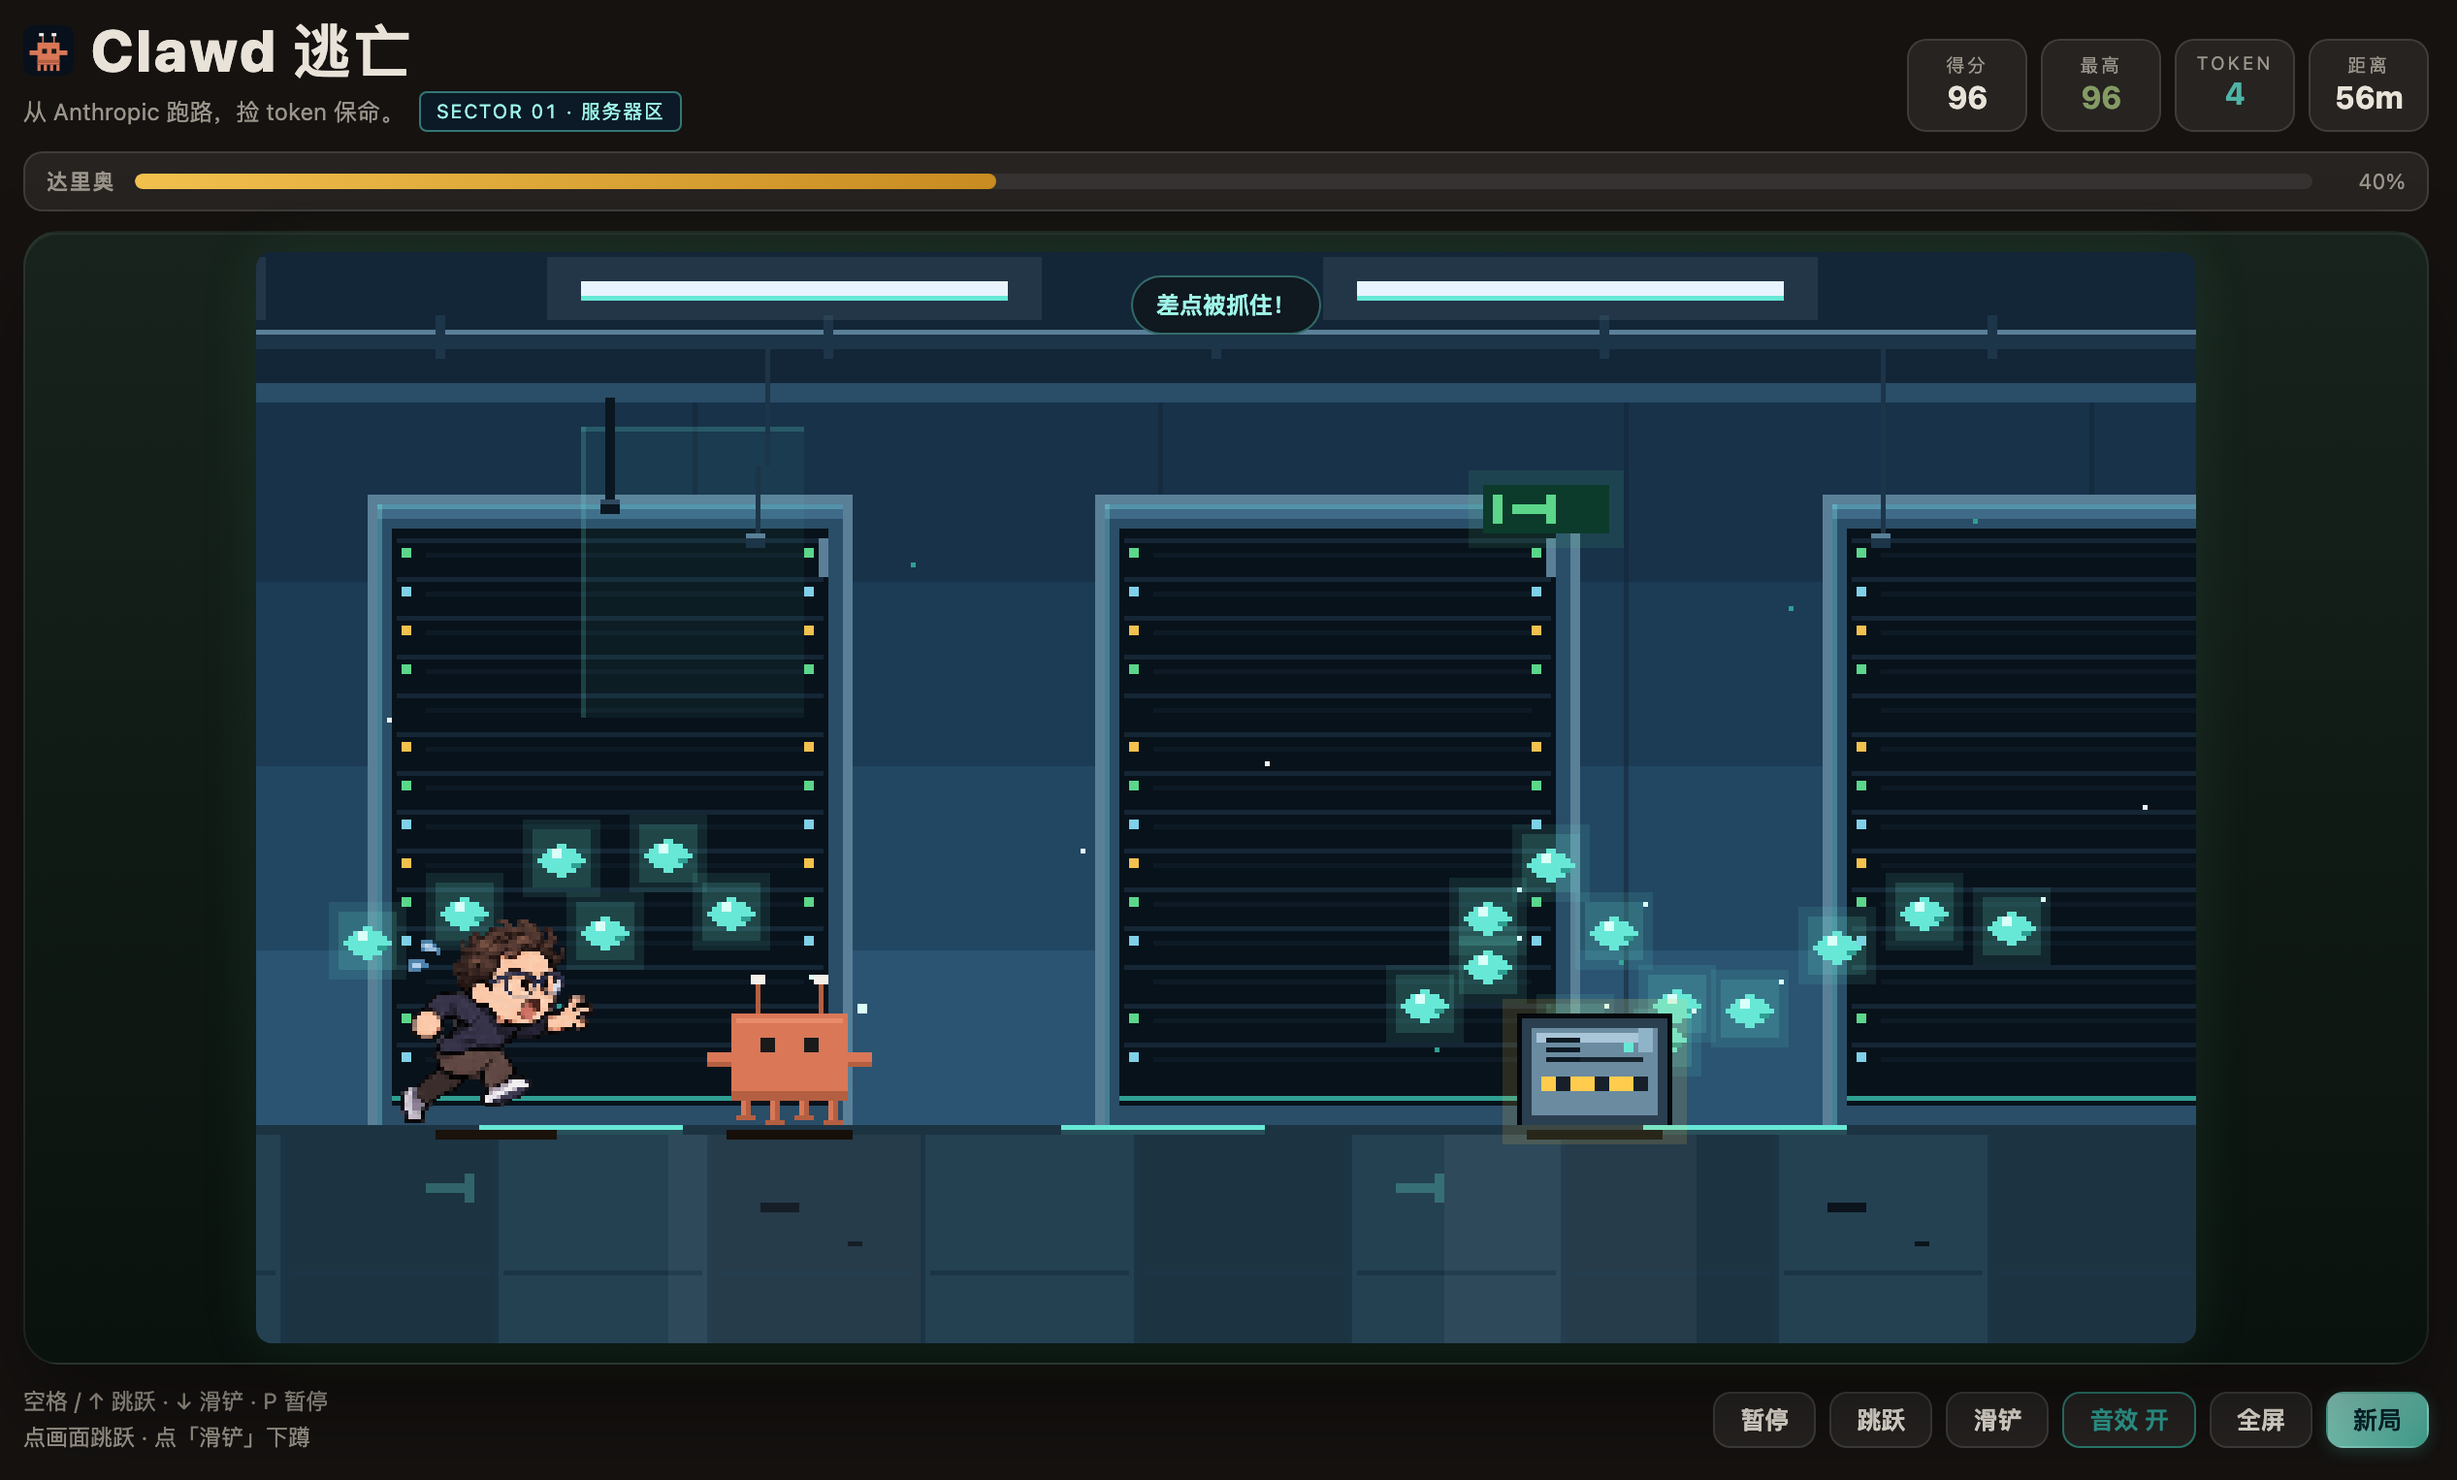
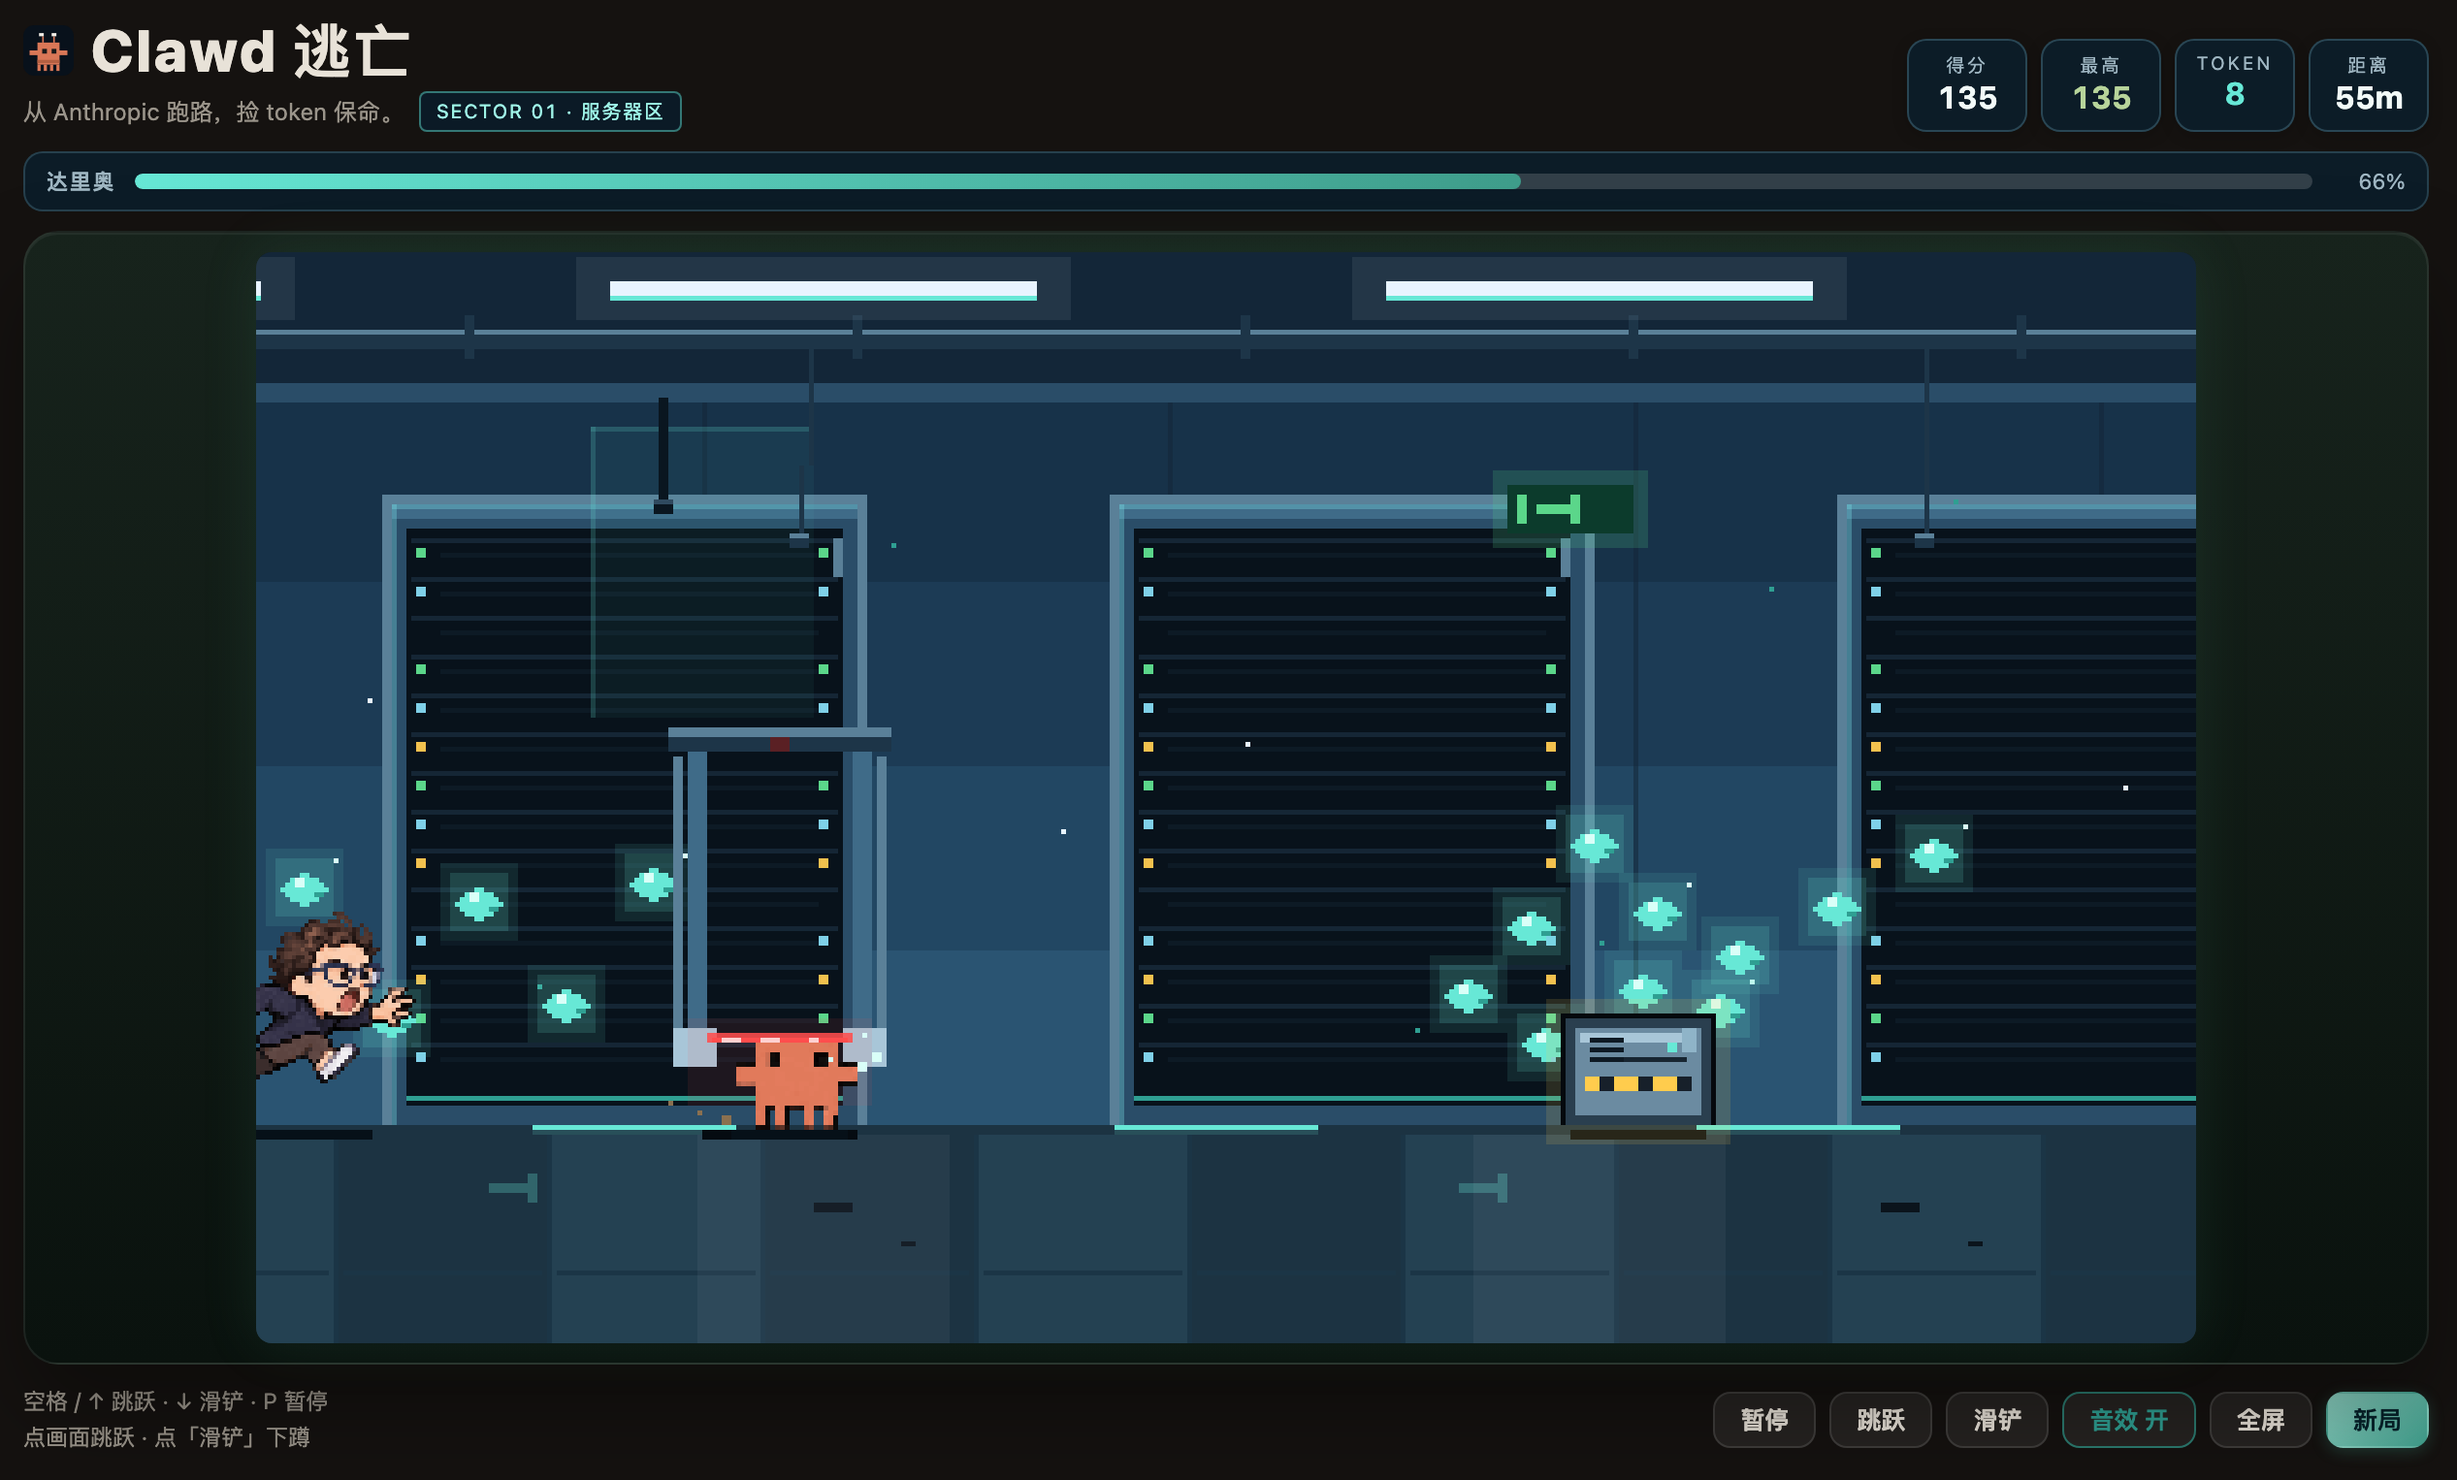
feat: 0.4.0 Clawd 运行/滑铲 GIF 精灵表，HUD 改固定深色高对比

diff --git a/lib/client.js b/lib/client.js
@@ -620,12 +620,6 @@ window.__ModuleLoader__.load({
           h('rect', { x: 10, y: 18, width: 1, height: 3 }),
           h('rect', { x: 13, y: 18, width: 1, height: 3 }),
           h('rect', { x: 16, y: 18, width: 1, height: 3 }),
-          h('rect', { x: 8, y: 3, width: 1, height: 4 }),
-          h('rect', { x: 15, y: 3, width: 1, height: 4, opacity: 0.7 }),
-        ),
-        h('g', { fill: 'currentColor', opacity: 0.9 },
-          h('rect', { x: 7, y: 3, width: 2, height: 1 }),
-          h('rect', { x: 14, y: 3, width: 2, height: 1 }),
         ),
       )
     }
@@ -648,12 +642,6 @@ window.__ModuleLoader__.load({
           h('rect', { x: 13, y: 25, width: 2, height: 4 }),
           h('rect', { x: 17, y: 25, width: 2, height: 4 }),
           h('rect', { x: 21, y: 25, width: 2, height: 4 }),
-          h('rect', { x: 12, y: 7, width: 1, height: 4 }),
-          h('rect', { x: 19, y: 7, width: 1, height: 4 }),
-        ),
-        h('g', { fill: '#f4f0e8' },
-          h('rect', { x: 10, y: 5, width: 3, height: 2 }),
-          h('rect', { x: 18, y: 5, width: 3, height: 2 }),
         ),
         h('g', { fill: '#1a1a1a' },
           h('rect', { x: 12, y: 15, width: 3, height: 3 }),
@@ -691,6 +679,14 @@ window.__ModuleLoader__.load({
     const DARIO_FRAME_W = 51
     const DARIO_FRAME_H = 56
     const DARIO_FRAMES = 12
+    // 用户提供的 Clawd-running.gif / Clawd-sliding.gif，各 12 帧、透明底，拆成横向精灵表内嵌。
[2 lines of base64/hex data omitted]
+    const CLAWD_RUN_FRAME_W = 46
+    const CLAWD_RUN_FRAME_H = 36
+    const CLAWD_SLIDE_FRAME_W = 38
+    const CLAWD_SLIDE_FRAME_H = 20
+    const CLAWD_FRAMES = 12
     const DUST = '#8a7050'
 
     function pixelCircle(ctx, cx, cy, radius, color) {
@@ -1085,83 +1081,62 @@ window.__ModuleLoader__.load({
       return Math.floor(now / 240) % 4 !== 0
     }
 
+    let clawdRunSprite = null
+    let clawdSlideSprite = null
+    function getClawdSprite(sliding) {
+      if (typeof Image === 'undefined') return null
+      if (sliding) {
+        if (!clawdSlideSprite) {
+          clawdSlideSprite = new Image()
+          clawdSlideSprite.src = CLAWD_SLIDE_SHEET
+        }
+        return clawdSlideSprite
+      }
+      if (!clawdRunSprite) {
+        clawdRunSprite = new Image()
+        clawdRunSprite.src = CLAWD_RUN_SHEET
+      }
+      return clawdRunSprite
+    }
+
+    /** Clawd 直接使用用户提供的 running / sliding 精灵表。 */
     function drawClawd(ctx, game, now) {
       const player = game.player
       const x = PLAYER_X
       const feet = Math.round(GROUND_Y + player.y)
       const sliding = player.sliding
       const airborne = player.y < 0
-      const phase = Math.floor(player.anim * 8) % 2
-      const bob = airborne || sliding ? 0 : (Math.floor(player.anim * 8) % 4 < 2 ? 0 : 1)
-      const bodyW = 24
-      const bodyH = 18
-      const bodyLeft = x - bodyW / 2
-      const bodyTop = sliding ? feet - 12 : feet - 24 + bob
-      const bodyHeight = sliding ? 12 : bodyH
-      const bodyColor = '#d97757'
-      const shade = '#b45f41'
-      const light = '#e88b6a'
-      if (!airborne) {
-        ctx.fillStyle = '#170f09'
-        ctx.fillRect(x - 13, GROUND_Y + 1, 26, 2)
-      }
-      // 四条腿（先画，压在身体下面；顶端固定接在身体底边，不再和身体断开）
-      const bodyBottom = bodyTop + bodyHeight
-      if (sliding) {
-        ctx.fillStyle = shade
-        ctx.fillRect(bodyLeft + 1, feet - 4, 5, 4)
-        ctx.fillRect(bodyLeft + bodyW - 7, feet - 4, 6, 4)
-        ctx.fillStyle = bodyColor
-        ctx.fillRect(bodyLeft + 2, feet - 6, 4, 3)
-        ctx.fillRect(bodyLeft + bodyW - 6, feet - 6, 4, 3)
+      const sprite = getClawdSprite(sliding)
+      const frameW = sliding ? CLAWD_SLIDE_FRAME_W : CLAWD_RUN_FRAME_W
+      const frameH = sliding ? CLAWD_SLIDE_FRAME_H : CLAWD_RUN_FRAME_H
+      const height = sliding ? 20 : 36
+      const width = Math.round((frameW * height) / frameH)
+      // 地面投影
+      ctx.fillStyle = '#061018'
+      if (airborne) {
+        const shrink = Math.min(12, Math.round(-player.y * 0.15))
+        ctx.fillRect(x - 12 + shrink, GROUND_Y + 1, 24 - shrink * 2, 2)
       } else {
-        const legOffsets = [2, 8, 14, 20]
-        for (let i = 0; i < legOffsets.length; i += 1) {
-          const swing = airborne ? 2 : (i % 2 === phase ? 1 : 0)
-          const top = bodyBottom - 1
-          const bottom = feet - (airborne ? 3 : swing)
-          if (bottom <= top) continue
-          ctx.fillStyle = shade
-          ctx.fillRect(bodyLeft + legOffsets[i], top, 2, bottom - top)
-          ctx.fillStyle = bodyColor
-          ctx.fillRect(bodyLeft + legOffsets[i], top, 1, Math.max(1, bottom - top - 1))
-          ctx.fillStyle = shade
-          ctx.fillRect(bodyLeft + legOffsets[i] - 1, bottom - 1, 4, 1)
-        }
+        ctx.fillRect(x - Math.round(width * 0.32), GROUND_Y + 1, Math.round(width * 0.64), 2)
       }
-      // 手臂（中段，左右各一截）
-      const armY = bodyTop + Math.floor(bodyHeight / 2) - 1
-      ctx.fillStyle = bodyColor
-      ctx.fillRect(bodyLeft - 5, armY, 5, 3)
-      ctx.fillRect(bodyLeft + bodyW, armY, 5, 3)
-      ctx.fillStyle = shade
-      ctx.fillRect(bodyLeft - 5, armY + 2, 5, 1)
-      ctx.fillRect(bodyLeft + bodyW, armY + 2, 5, 1)
-      // 方身体
-      ctx.fillStyle = bodyColor
-      ctx.fillRect(bodyLeft, bodyTop, bodyW, bodyHeight)
-      ctx.fillStyle = light
-      ctx.fillRect(bodyLeft + 1, bodyTop + 1, bodyW - 2, 1)
-      ctx.fillStyle = shade
-      ctx.fillRect(bodyLeft, bodyTop + bodyHeight - 2, bodyW, 2)
-      // 两根触角 + 白色尖端
-      const antennaY = bodyTop - 6
-      ctx.fillStyle = shade
-      ctx.fillRect(bodyLeft + 5, antennaY, 1, 6)
-      ctx.fillRect(bodyLeft + bodyW - 6, antennaY, 1, 6)
-      ctx.fillStyle = '#f4f0e8'
-      ctx.fillRect(bodyLeft + 4, antennaY - 2, 3, 2)
-      ctx.fillRect(bodyLeft + bodyW - 7, antennaY - 2, 3, 2)
-      // 两只方形眼睛，没嘴巴
-      ctx.fillStyle = '#1a1a1a'
-      const eyeY = bodyTop + (sliding ? 3 : 5)
-      const eyeOffset = sliding ? 8 : 6
-      ctx.fillRect(bodyLeft + eyeOffset, eyeY, 3, 3)
-      ctx.fillRect(bodyLeft + bodyW - eyeOffset - 3, eyeY, 3, 3)
-      // 跑动时脚边的小尘土
-      if (!airborne && !sliding && (Math.floor(player.anim * 8) % 6 === 0)) {
-        ctx.fillStyle = '#6b5238'
-        ctx.fillRect(bodyLeft - 2, feet - 1, 2, 1)
+      if (!sprite || !sprite.complete || !sprite.naturalWidth) return
+      const blinking = player.invuln > 0 && Math.floor(now / 110) % 2 === 0
+      const frameTime = sliding ? 0.09 : 0.08
+      const frame = Math.floor(game.time / frameTime) % CLAWD_FRAMES
+      const left = x - Math.round(width / 2)
+      const top = feet + 2 - height
+      ctx.drawImage(sprite, frame * frameW, 0, frameW, frameH, left, top, width, height)
+      if (blinking) {
+        ctx.fillStyle = '#ffffff'
+        const arm = 5
+        ctx.fillRect(left - 2, top - 2, arm, 1)
+        ctx.fillRect(left - 2, top - 2, 1, arm)
+        ctx.fillRect(left + width + 1 - arm, top - 2, arm, 1)
+        ctx.fillRect(left + width + 1, top - 2, 1, arm)
+        ctx.fillRect(left - 2, top + height + 1, arm, 1)
+        ctx.fillRect(left - 2, top + height + 1 - arm + 1, 1, arm)
+        ctx.fillRect(left + width + 1 - arm, top + height + 1, arm, 1)
+        ctx.fillRect(left + width + 1, top + height + 1 - arm + 1, 1, arm)
       }
     }
 
@@ -1174,14 +1149,13 @@ window.__ModuleLoader__.load({
       return darioSprite
     }
 
-    /** 达里奥直接用用户给的 Running-Dario.gif 拆帧精灵表。 */
+    /** 达里奥使用用户提供的 Running-Dario.gif 拆帧精灵表。 */
     function drawDario(ctx, game, now) {
       const x = Math.round(PLAYER_X - game.gap)
       if (x < -80) return
       const height = game.gap < 35 ? 50 : 46
       const width = Math.round((DARIO_FRAME_W * height) / DARIO_FRAME_H)
-      // 地面投影
-      ctx.fillStyle = '#1a120b'
+      ctx.fillStyle = '#061018'
       ctx.fillRect(x - Math.round(width * 0.3), GROUND_Y + 1, Math.round(width * 0.6), 2)
       const sprite = getDarioSprite()
       if (!sprite || !sprite.complete || !sprite.naturalWidth) return
@@ -1230,18 +1204,18 @@ window.__ModuleLoader__.load({
       '.cr-sub{font-size:12px;line-height:1.5;color:var(--dsw-alias-label-secondary,#9a9a9a)}',
       '.cr-sector{display:inline-block;margin-left:8px;padding:2px 8px;border-radius:4px;border:1px solid rgba(103,232,214,.45);background:#0b1a26;font-size:10px;letter-spacing:.08em;color:#9ff5e8;vertical-align:1px;font-variant-numeric:tabular-nums}',
       '.cr-stats{display:flex;gap:7px;flex-wrap:wrap}',
-      '.cr-stat{min-width:62px;padding:6px 9px;border-radius:10px;box-sizing:border-box;text-align:center;background:var(--dsw-alias-bg-layer-2,rgba(127,127,127,.12));border:1px solid var(--dsw-alias-border-l1,rgba(127,127,127,.2))}',
-      '.cr-stat-k{font-size:9.5px;letter-spacing:.14em;text-transform:uppercase;color:var(--dsw-alias-label-secondary,#9a9a9a)}',
-      '.cr-stat-v{font-size:16px;font-weight:700;line-height:1.3;font-variant-numeric:tabular-nums;color:var(--dsw-alias-label-primary,inherit)}',
-      '.cr-stat.is-best .cr-stat-v{color:#849b64}',
-      '.cr-stat.is-token .cr-stat-v{color:#4fb3a5}',
-      '.cr-chase{display:flex;align-items:center;gap:10px;padding:7px 11px;border-radius:10px;box-sizing:border-box;background:var(--dsw-alias-bg-layer-2,rgba(127,127,127,.1));border:1px solid var(--dsw-alias-border-l1,rgba(127,127,127,.18))}',
-      '.cr-chase-label{flex:0 0 auto;font-size:11px;font-weight:700;letter-spacing:.08em;color:var(--dsw-alias-label-secondary,#9a9a9a)}',
-      '.cr-chase-track{flex:1 1 auto;height:8px;border-radius:999px;overflow:hidden;background:rgba(127,127,127,.18)}',
+      '.cr-stat{min-width:62px;padding:6px 9px;border-radius:10px;box-sizing:border-box;text-align:center;background:#0c1c27;border:1px solid rgba(120,180,200,.28);box-shadow:0 2px 8px rgba(0,0,0,.18)}',
+      '.cr-stat-k{font-size:9.5px;letter-spacing:.14em;text-transform:uppercase;color:#9fb6c2}',
+      '.cr-stat-v{font-size:16px;font-weight:700;line-height:1.3;font-variant-numeric:tabular-nums;color:#f2faf8}',
+      '.cr-stat.is-best .cr-stat-v{color:#b7d49a}',
+      '.cr-stat.is-token .cr-stat-v{color:#67e8d6}',
+      '.cr-chase{display:flex;align-items:center;gap:10px;padding:7px 11px;border-radius:10px;box-sizing:border-box;background:#0c1c27;border:1px solid rgba(120,180,200,.24)}',
+      '.cr-chase-label{flex:0 0 auto;font-size:11px;font-weight:700;letter-spacing:.08em;color:#9fb6c2}',
+      '.cr-chase-track{flex:1 1 auto;height:8px;border-radius:999px;overflow:hidden;background:rgba(255,255,255,.16)}',
       '.cr-chase-fill{height:100%;border-radius:999px;background:linear-gradient(90deg,#67e8d6,#3f9d8b);transition:width 120ms linear,background 200ms ease}',
       '.cr-chase.is-warn .cr-chase-fill{background:linear-gradient(90deg,#f2c14e,#c98c22)}',
       '.cr-chase.is-danger .cr-chase-fill{background:linear-gradient(90deg,#f25f5c,#a63b3b)}',
-      '.cr-chase-pct{flex:0 0 auto;min-width:38px;text-align:right;font-size:11px;font-variant-numeric:tabular-nums;color:var(--dsw-alias-label-secondary,#9a9a9a)}',
+      '.cr-chase-pct{flex:0 0 auto;min-width:38px;text-align:right;font-size:11px;font-variant-numeric:tabular-nums;color:#9fb6c2}',
       '.cr-aquarium{position:relative;width:100%;box-sizing:border-box;padding:10px;border-radius:18px;background:linear-gradient(180deg,#17231c,#0a120e);border:1px solid rgba(255,255,255,.08);box-shadow:0 24px 48px rgba(0,0,0,.34),inset 0 1px 0 rgba(255,255,255,.06)}',
       '.cr-screen-slot{position:relative;display:flex;justify-content:center;align-items:center;width:100%;min-height:120px}',
       '.cr-canvas{display:block;image-rendering:pixelated;background:#07110d;border-radius:8px;touch-action:none;user-select:none;-webkit-user-select:none;box-shadow:0 0 30px rgba(80,180,140,.12),inset 0 0 0 1px rgba(140,200,170,.12);cursor:pointer}',
